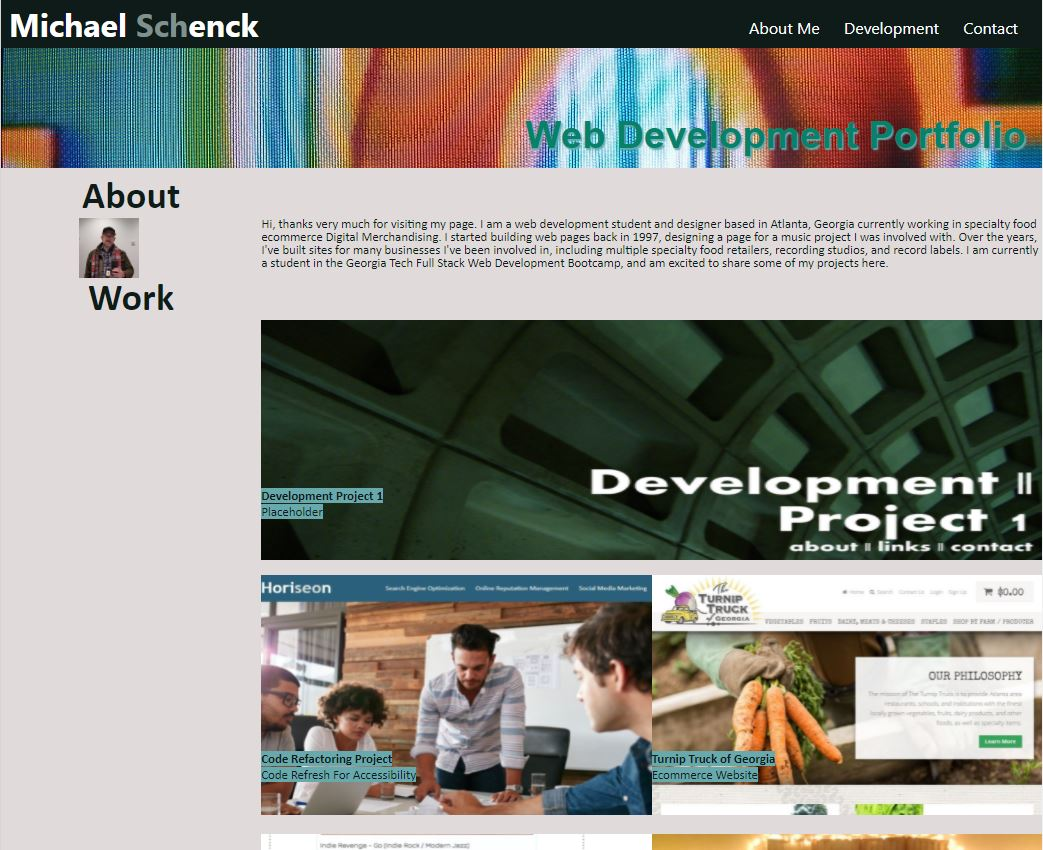
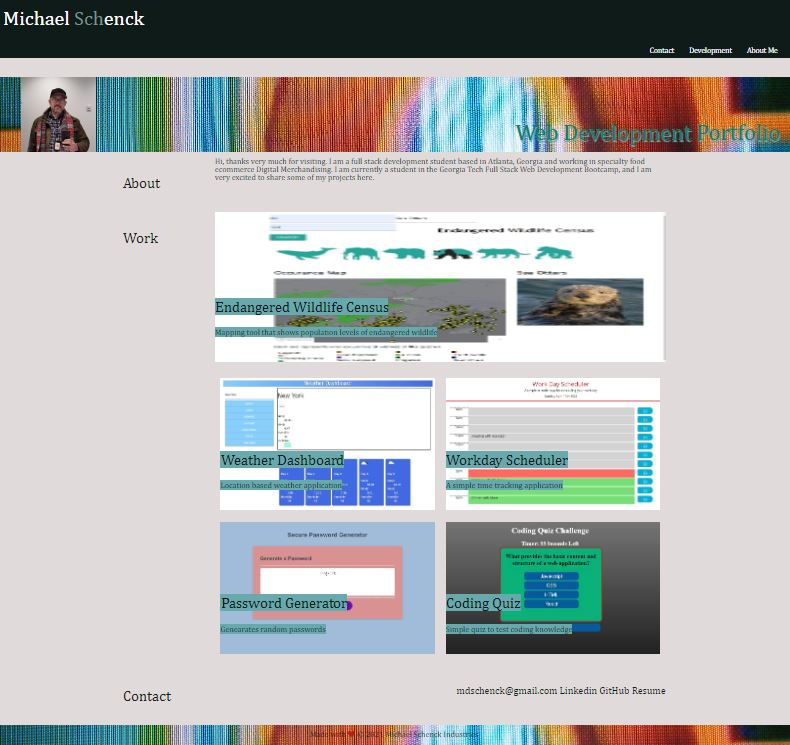
Add more projects & images. Fix screenshot in ReadMe.

diff --git a/index.html b/index.html
@@ -156,12 +156,16 @@
                   <p><span>Genearates random passwords</span></p>
                 </div>
                 <div class="col s12 l6 projectContainer">
+                  <a
+                  href="https://mdschenck.github.io/Coding-Quiz/"
+                  target="top"
+                >
                   <img
-                    src="./assets/Images/mixedbymichael.jpg"
-                    alt="Image Of Mixed By Michael Website"
-                  />
-                  <h2><span>Mixed by Michael</span></h2>
-                  <p><span>Music Player Website</span></p>
+                    src="./assets/Images/Coding-Quiz.JPG"
+                    alt="Image Of Coding Quiz"
+                  /></a>
+                  <h2><span>Coding Quiz</span></h2>
+                  <p><span>Simple quiz to test coding knowledge</span></p>
                 </div>
               </div>
             </div>
